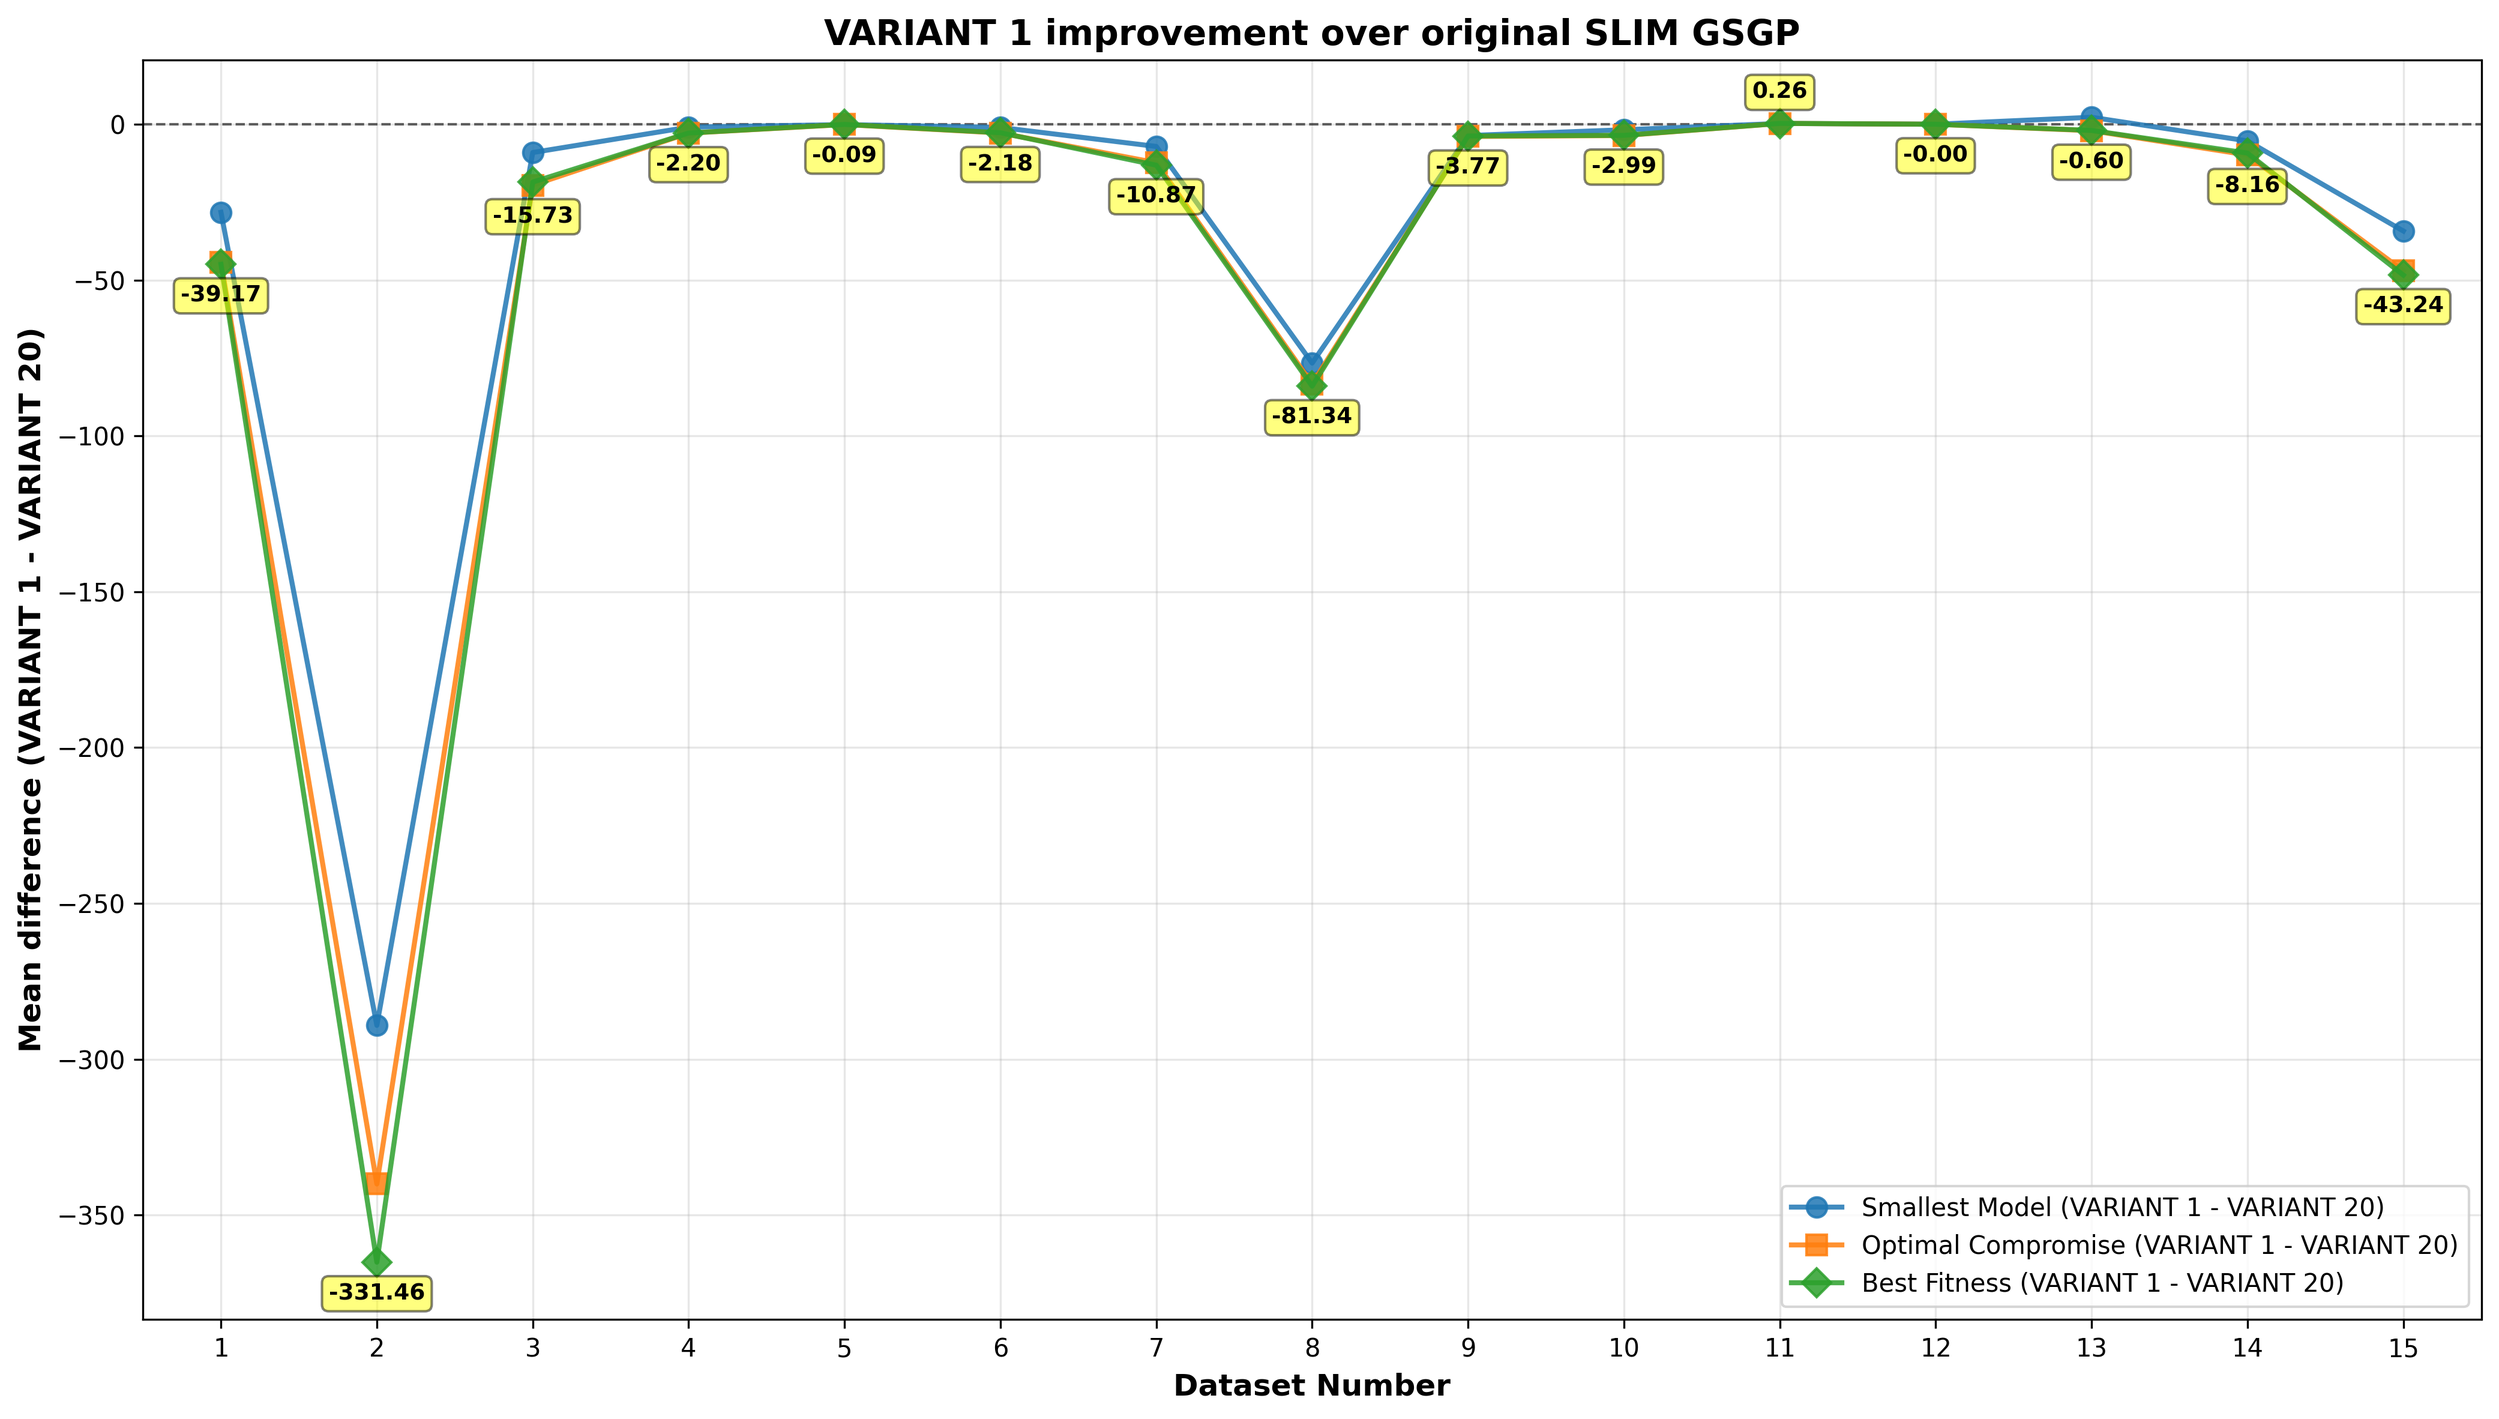
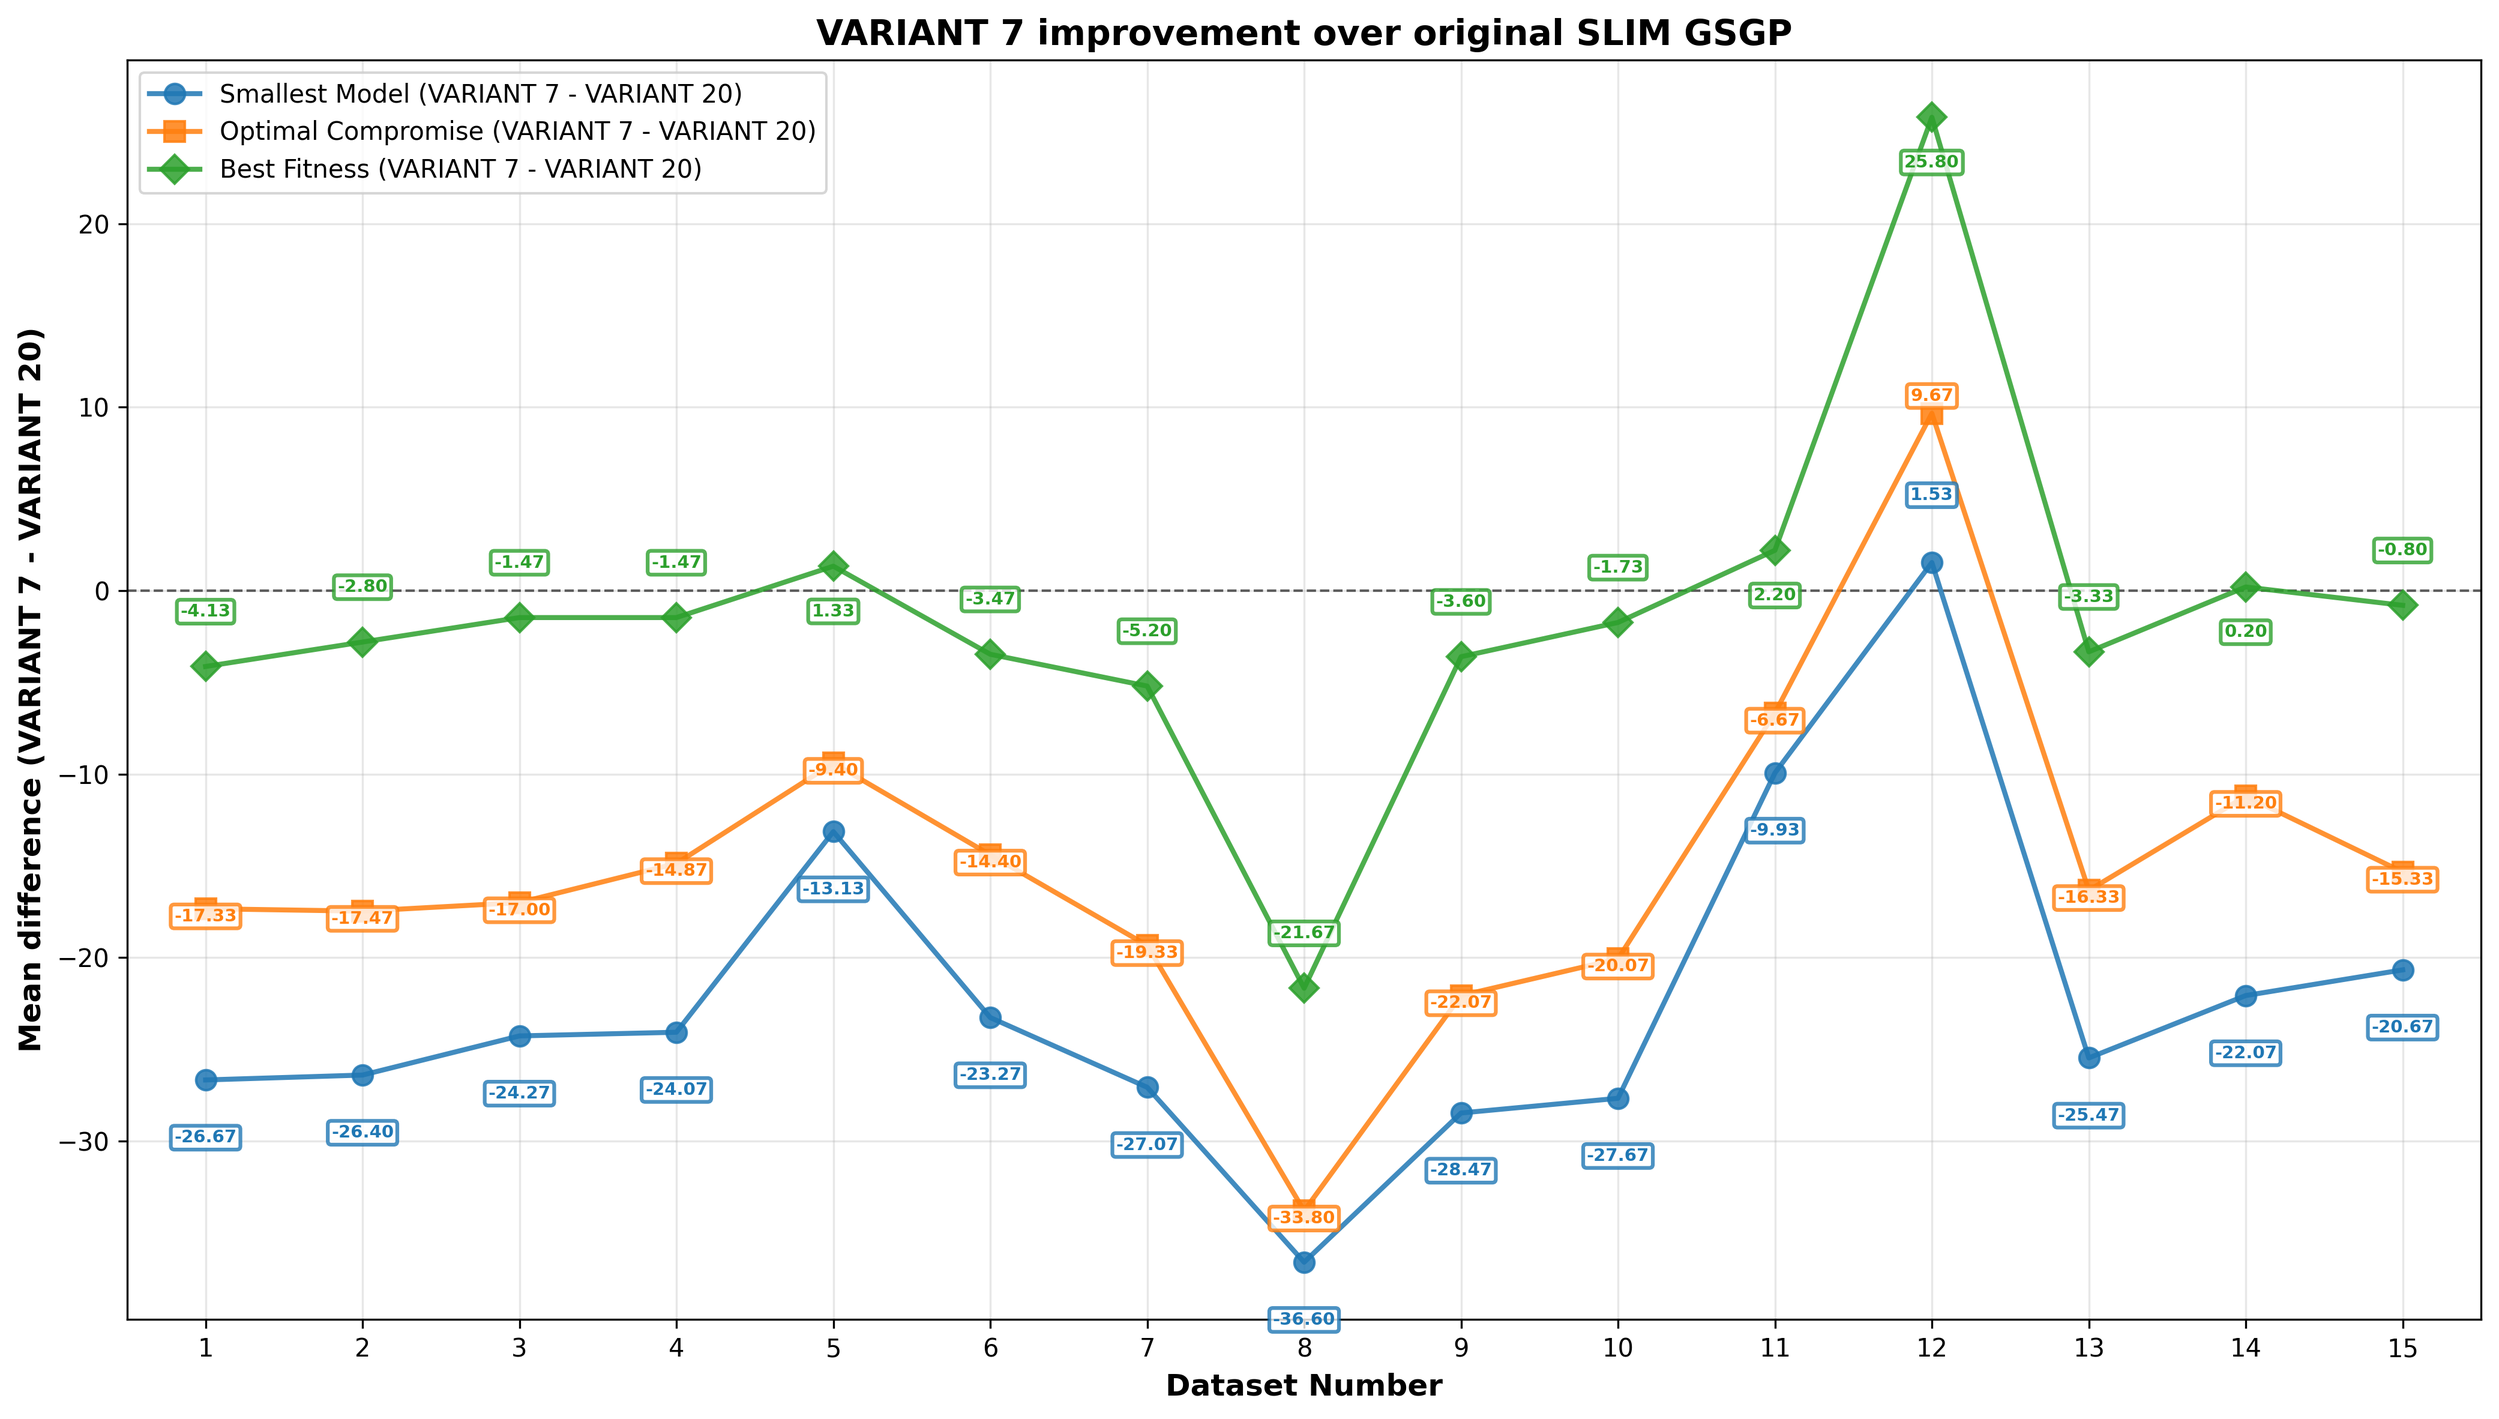
plot size implemented

diff --git a/slim_gsgp/plot_fitness_size_results.py b/slim_gsgp/plot_fitness_size_results.py
@@ -51,13 +51,14 @@ def extract_mean_value(mean_str):
     
     return None
 
-def load_excel_data(excel_file="results_test_fitness_size.xlsx", sheet_name=0):
+def load_excel_data(excel_file="results_test_fitness_size.xlsx", sheet_name=0, table_type='fitness'):
     """
     Load the results from Excel file.
     
     Args:
         excel_file: Path to the Excel file with results
         sheet_name: Sheet name or index to read (0 for first sheet)
+        table_type: 'fitness' or 'size' - which table to load
         
     Returns:
         pandas.DataFrame: DataFrame with the results
@@ -71,6 +72,7 @@ def load_excel_data(excel_file="results_test_fitness_size.xlsx", sheet_name=0):
         print(f"Loaded Excel file: {excel_file}")
         print(f"Sheet: {sheet_name if isinstance(sheet_name, str) else 'First sheet'}")
         print(f"Shape: {df.shape}")
+        print(f"Table type: {table_type.upper()}")
         
         # The Excel has multiple tables. We need to find where the first table ends
         # Look for rows where the first column contains "PERFORMANCE - MODEL SIZE"
@@ -84,21 +86,27 @@ def load_excel_data(excel_file="results_test_fitness_size.xlsx", sheet_name=0):
                 print(f"Found 'PERFORMANCE - MODEL SIZE' table starting at row {idx}")
                 break
         
-        # Keep only rows before the second table (TEST FITNESS table)
-        if model_size_idx is not None:
-            df = df.iloc[:model_size_idx].copy()
-            print(f"Filtered to TEST FITNESS table only, new shape: {df.shape}")
+        # Select the appropriate table based on table_type
+        if table_type.lower() == 'size':
+            # Load SIZE table
+            if model_size_idx is not None:
+                df = df.iloc[model_size_idx:].copy()
+                print(f"Selected MODEL SIZE table, shape: {df.shape}")
+                # Skip first 3 rows (header rows)
+                if len(df) > 3:
+                    df = df.iloc[3:].reset_index(drop=True)
+            else:
+                raise ValueError("MODEL SIZE table not found in the Excel file")
+        else:
+            # Load FITNESS table (default)
+            if model_size_idx is not None:
+                df = df.iloc[:model_size_idx].copy()
+                print(f"Selected TEST FITNESS table, shape: {df.shape}")
+            # Skip first row (statistic names row)
+            if len(df) > 0:
+                df = df.iloc[1:].reset_index(drop=True)
         
-        # The first row contains the actual statistic names (Median (IQR), Mean (STD))
-        # We need to skip this row and use it to rename columns
-        if len(df) > 0:
-            first_row = df.iloc[0]
-            
-            # Drop the first row (which was the statistic names)
-            df = df.iloc[1:].reset_index(drop=True)
-            
-            print(f"Updated shape after removing header row: {df.shape}")
-        
+        print(f"Final shape after processing: {df.shape}")
         print(f"Sample columns: {df.columns[:10].tolist()}")
         
         return df
@@ -226,8 +234,13 @@ def create_variant_20_plot(plot_data):
         'Best Fitness': 'D'
     }
 
-    # Dictionary to store means for each dataset across all models
-    dataset_means = {}
+    # Plot each model type and add individual annotations with different offsets
+    # to avoid overlapping when values are close
+    offsets = {
+        'Smallest Model': 25,      # Offset más alto
+        'Optimal Compromise': 5,   # Offset medio
+        'Best Fitness': -20        # Offset más bajo
+    }
     
     for model_type in ['Smallest Model', 'Optimal Compromise', 'Best Fitness']:
         if plot_data[model_type]['datasets']:
@@ -244,28 +257,23 @@ def create_variant_20_plot(plot_data):
                      label=model_type,
                      alpha=0.8)
             
-            # Store means for averaging
+            # Add individual value annotations for each point on this line
+            # Use different vertical offsets for each model type to avoid overlap
+            y_offset = offsets[model_type]
             for ds, mean in zip(datasets_sorted, means_sorted):
-                if ds not in dataset_means:
-                    dataset_means[ds] = []
-                dataset_means[ds].append(mean)
-    
-    # Add average value annotations for each dataset
-    for ds_num in sorted(dataset_means.keys()):
-        means_for_ds = dataset_means[ds_num]
-        if means_for_ds:
-            avg_mean = sum(means_for_ds) / len(means_for_ds)
-            # Position the annotation above the highest point
-            y_position = max(means_for_ds)
-            plt.annotate(f'{avg_mean:.2f}', 
-                       xy=(ds_num, y_position), 
-                       xytext=(0, 10),
-                       textcoords='offset points',
-                       ha='center',
-                       fontsize=9,
-                       fontweight='bold',
-                       color='black',
-                       bbox=dict(boxstyle='round,pad=0.3', facecolor='yellow', alpha=0.5))
+                plt.annotate(f'{mean:.2f}', 
+                           xy=(ds, mean), 
+                           xytext=(0, y_offset),
+                           textcoords='offset points',
+                           ha='center',
+                           fontsize=7,
+                           fontweight='bold',
+                           color=colors[model_type],
+                           bbox=dict(boxstyle='round,pad=0.2', 
+                                   facecolor='white', 
+                                   edgecolor=colors[model_type],
+                                   alpha=0.8,
+                                   linewidth=1.5))
 
     plt.xlabel('Dataset Number', fontsize=12, fontweight='bold')
     plt.ylabel('Mean Value', fontsize=12, fontweight='bold')
@@ -308,8 +316,12 @@ def create_compare_plot(df, compare_variant='VARIANT 1', baseline_variant='VARIA
 
     any_data = False
     
-    # Dictionary to store deltas for each dataset across all models
-    dataset_deltas = {}
+    # Different offsets for each model type to avoid overlapping annotations
+    offsets = {
+        'Smallest Model': 25,      # Offset más alto
+        'Optimal Compromise': 5,   # Offset medio
+        'Best Fitness': -20        # Offset más bajo (pero se ajusta según el signo)
+    }
     
     for model in model_types:
         ds = []
@@ -323,11 +335,6 @@ def create_compare_plot(df, compare_variant='VARIANT 1', baseline_variant='VARIA
             ds.append(i)
             delta = c - b
             deltas.append(delta)
-            
-            # Store delta for averaging
-            if i not in dataset_deltas:
-                dataset_deltas[i] = []
-            dataset_deltas[i].append(delta)
 
         if ds:
             any_data = True
@@ -338,23 +345,30 @@ def create_compare_plot(df, compare_variant='VARIANT 1', baseline_variant='VARIA
                      markersize=8,
                      label=f"{model} ({compare_variant} - {baseline_variant})",
                      alpha=0.85)
-    
-    # Add average value annotations for each dataset
-    for ds_num in sorted(dataset_deltas.keys()):
-        deltas_for_ds = dataset_deltas[ds_num]
-        if deltas_for_ds:
-            avg_delta = sum(deltas_for_ds) / len(deltas_for_ds)
-            # Position the annotation above the highest point or below the lowest
-            y_position = max(deltas_for_ds) if avg_delta >= 0 else min(deltas_for_ds)
-            plt.annotate(f'{avg_delta:.2f}', 
-                       xy=(ds_num, y_position), 
-                       xytext=(0, 10 if avg_delta >= 0 else -15),
-                       textcoords='offset points',
-                       ha='center',
-                       fontsize=9,
-                       fontweight='bold',
-                       color='black',
-                       bbox=dict(boxstyle='round,pad=0.3', facecolor='yellow', alpha=0.5))
+            
+            # Add individual value annotations for each point on this line
+            # Use different vertical offsets for each model type to avoid overlap
+            base_offset = offsets[model]
+            for ds_num, delta in zip(ds, deltas):
+                # Adjust offset based on sign of delta
+                if delta >= 0:
+                    y_offset = base_offset
+                else:
+                    y_offset = -base_offset
+                    
+                plt.annotate(f'{delta:.2f}', 
+                           xy=(ds_num, delta), 
+                           xytext=(0, y_offset),
+                           textcoords='offset points',
+                           ha='center',
+                           fontsize=7,
+                           fontweight='bold',
+                           color=colors[model],
+                           bbox=dict(boxstyle='round,pad=0.2', 
+                                   facecolor='white', 
+                                   edgecolor=colors[model],
+                                   alpha=0.8,
+                                   linewidth=1.5))
 
     if not any_data:
         print("Warning: No overlapping data found between variants for comparison.")
@@ -433,25 +447,26 @@ def print_summary_statistics(plot_data):
         else:
             print(f"\n{model_type}: No data found")
 
-def main(excel_file="results_test_fitness_size.xlsx", output_plot=None):
+def main(excel_file="results_test_fitness_size.xlsx", output_plot=None, table_type='fitness'):
     """
     Main function to generate the VARIANT 20 plot.
     
     Args:
         excel_file: Path to the Excel file with results
         output_plot: Custom output filename for the plot. If None, auto-generates
+        table_type: 'fitness' or 'size' - which table to plot
     """
     try:
         # Load data
         print(f"Loading results data from: {excel_file}")
-        df = load_excel_data(excel_file)
+        df = load_excel_data(excel_file, table_type=table_type)
 
         # Filter for VARIANT 20
         print("\nFiltering for VARIANT 20...")
         df_variant_20 = filter_variant_20(df)
 
         # Prepare plot data
-        print("\nPreparing plot data for VARIANT 20 (baseline)...")
+        print(f"\nPreparing plot data for VARIANT 20 (baseline) - {table_type.upper()}...")
         plot_data = prepare_plot_data(df_variant_20)
 
         # Print detailed values for verification
@@ -461,12 +476,12 @@ def main(excel_file="results_test_fitness_size.xlsx", output_plot=None):
         print_summary_statistics(plot_data)
 
         # By default create baseline plot
-        print("\nCreating VARIANT 20 plot...")
+        print(f"\nCreating VARIANT 20 {table_type.upper()} plot...")
         fig = create_variant_20_plot(plot_data)
 
         # Generate output filename if not provided
         if output_plot is None:
-            output_plot = "variant_20_plot.png"
+            output_plot = f"variant_20_{table_type}_plot.png"
 
         # Save the plot
         fig.savefig(output_plot, dpi=300, bbox_inches='tight')
@@ -492,26 +507,30 @@ if __name__ == "__main__":
     # Parse command line arguments
     excel_file = "results_test_fitness_size.xlsx"  # Default
     output_plot = None
-    
     compare_variant = None
+    table_type = 'fitness'  # Default: fitness
+    
     if len(sys.argv) > 1:
         excel_file = sys.argv[1]
     if len(sys.argv) > 2:
         output_plot = sys.argv[2]
     if len(sys.argv) > 3:
         compare_variant = sys.argv[3]  # e.g., 'VARIANT 1'
+    if len(sys.argv) > 4:
+        table_type = sys.argv[4]  # 'fitness' or 'size'
     
     print(f"Configuration:")
     print(f"  Excel file: {excel_file}")
-    print(f"  Output plot: {output_plot if output_plot else 'Auto-generated (variant_20_plot.png)'}")
+    print(f"  Output plot: {output_plot if output_plot else 'Auto-generated'}")
+    print(f"  Table type: {table_type.upper()}")
     print()
     
     if compare_variant:
-        print(f"Will compare {compare_variant} against baseline VARIANT 20")
+        print(f"Will compare {compare_variant} against baseline VARIANT 20 using {table_type.upper()} data")
         # Load df and call compare plot directly to avoid re-reading inside main
-        df = load_excel_data(excel_file)
+        df = load_excel_data(excel_file, table_type=table_type)
         plt_obj = create_compare_plot(df, compare_variant=compare_variant, baseline_variant='VARIANT 20')
-        out = output_plot if output_plot else f"compare_{compare_variant.replace(' ', '_')}_vs_VARIANT_20.png"
+        out = output_plot if output_plot else f"compare_{compare_variant.replace(' ', '_')}_vs_VARIANT_20_{table_type}.png"
         plt_obj.savefig(out, dpi=300, bbox_inches='tight')
         print(f"Comparison plot saved as: {out}")
         try:
@@ -519,4 +538,4 @@ if __name__ == "__main__":
         except Exception:
             pass
     else:
-        main(excel_file=excel_file, output_plot=output_plot)
+        main(excel_file=excel_file, output_plot=output_plot, table_type=table_type)
